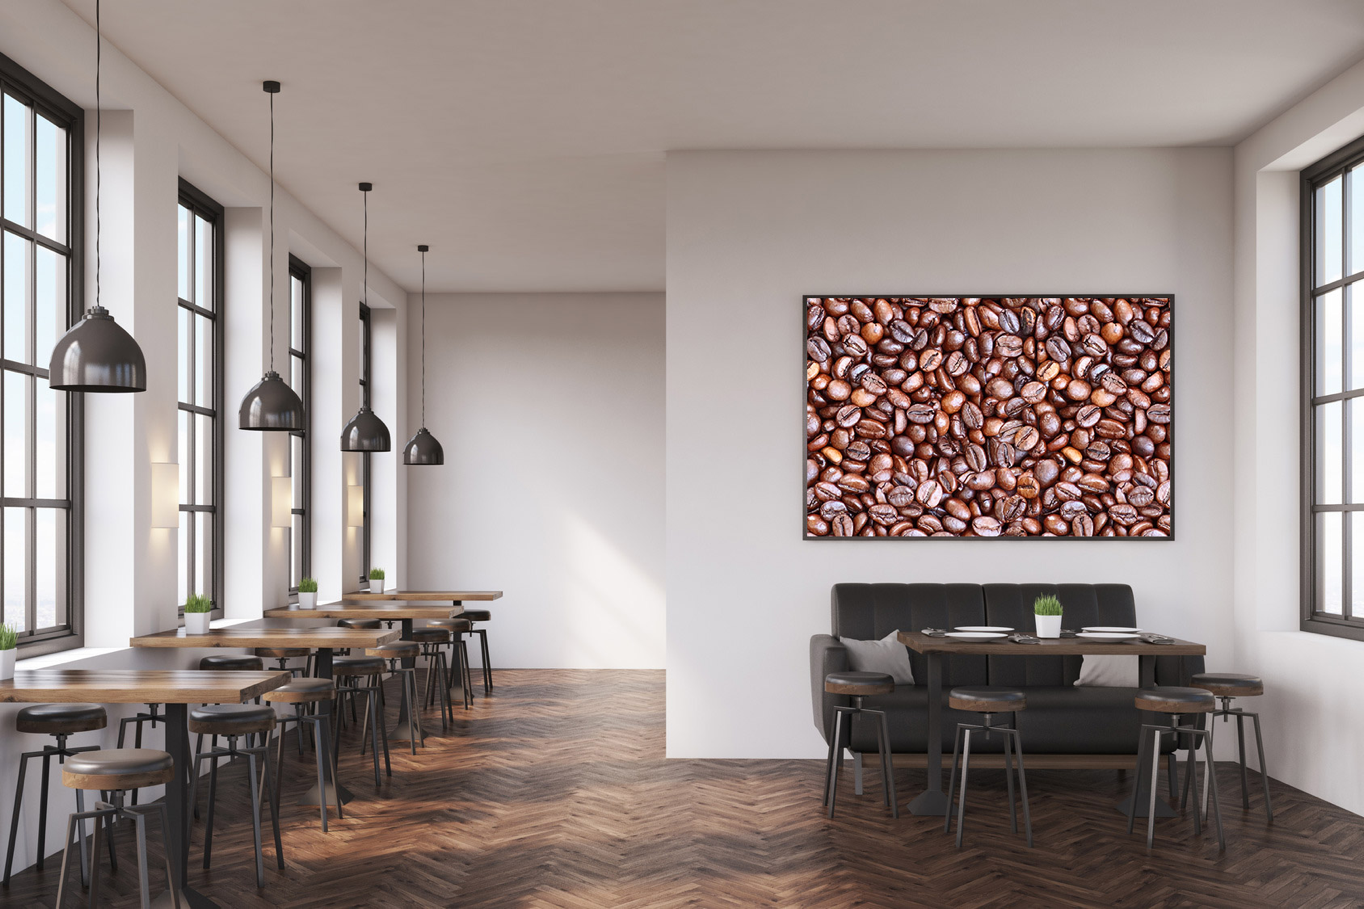
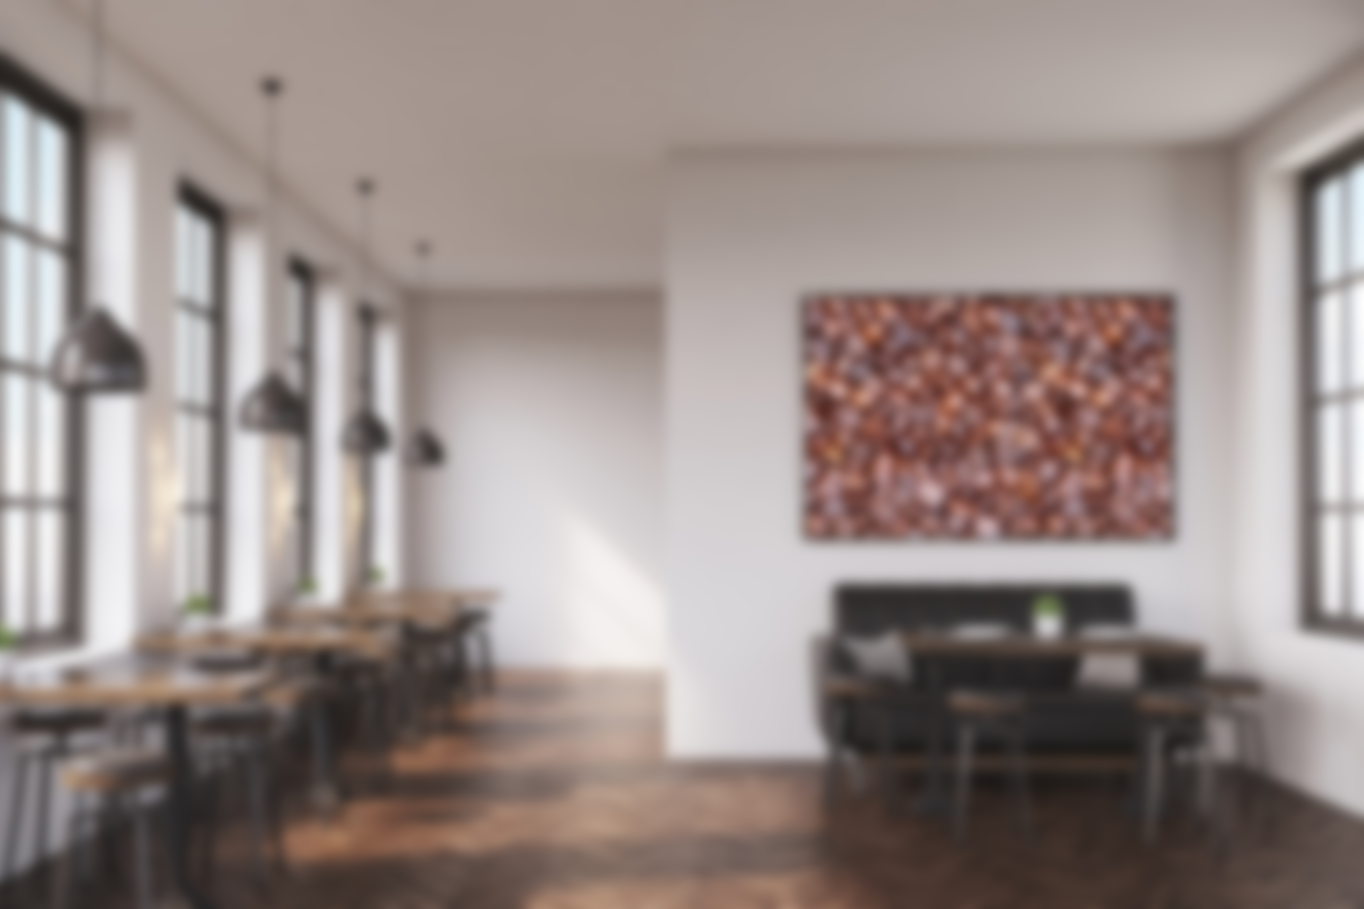
bug main-menu fixed - fixed width, blur in psd done.

diff --git a/src/scss/style.scss b/src/scss/style.scss
@@ -73,7 +73,6 @@
     @include flex(space-between);
 
     & > * {
-      position: relative;
       z-index: 1;
     }
   }
@@ -123,10 +122,10 @@
 
   @include rwd(1220px) {
     position: fixed;
-    right: -320px;
+    right: -247px;
     display: flex;
     flex-direction: column;
-    min-width: 264px;
+    min-width: 247px;
     border-top-left-radius: 8px;
     border-bottom-left-radius: 8px;
     background-color: $secondary-color;
@@ -150,10 +149,6 @@
         font-weight: bold;
       }
     }
-  }
-
-  @include rwd(phone) {
-    min-width: 230px;
   }
 
   &__item {
